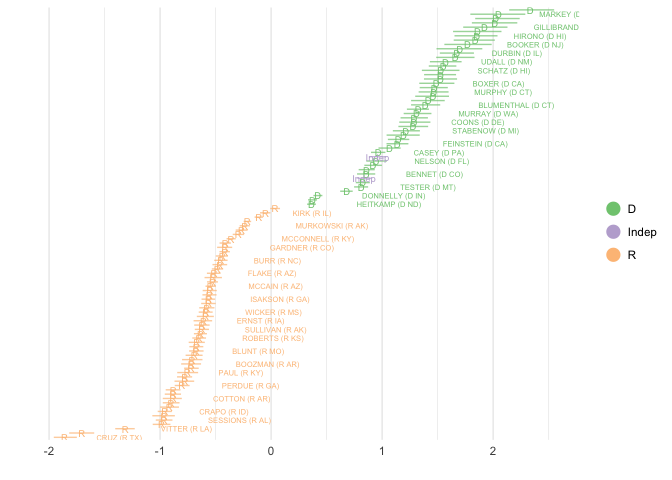
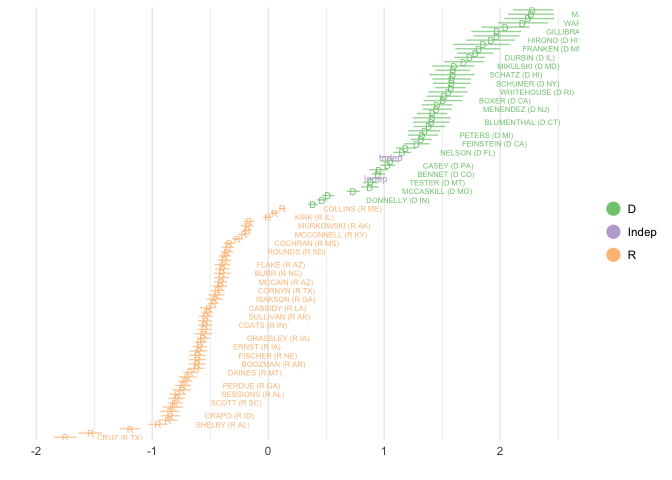
fixed typo in vignettes

Changed region(s): [[0.1562, 0.0, 0.875, 0.9375], [0.0938, 0.875, 0.1562, 0.9062]]

diff --git a/README.md b/README.md
@@ -31,12 +31,12 @@ knitr::kable(as_data_frame(head(ord_ideal_sim@score_matrix)))
 
 |    1|    2|    3|    4|    5|    6|    7|    8|    9|   10|   11|   12|   13|   14|   15|   16|   17|   18|   19|   20|   21|   22|   23|   24|   25|   26|   27|   28|   29|   30|   31|   32|   33|   34|   35|   36|   37|   38|   39|   40|   41|   42|   43|   44|   45|   46|   47|   48|   49|   50|
 |----:|----:|----:|----:|----:|----:|----:|----:|----:|----:|----:|----:|----:|----:|----:|----:|----:|----:|----:|----:|----:|----:|----:|----:|----:|----:|----:|----:|----:|----:|----:|----:|----:|----:|----:|----:|----:|----:|----:|----:|----:|----:|----:|----:|----:|----:|----:|----:|----:|----:|
-|    1|    1|    4|    2|    2|    4|    4|    4|    4|    1|    4|    3|    4|    3|    4|    4|    4|    3|    4|    4|    4|    4|    4|    1|    3|    4|    3|    4|    4|    2|    3|    4|    4|    3|    2|    1|    4|    2|    1|    1|    2|    3|    4|    4|    4|    2|    1|    3|    4|    1|
-|    3|    1|    4|    4|    1|    4|    4|    3|    1|    1|    3|    3|    4|    4|    4|    2|    4|    3|    4|    4|    4|    4|    4|    4|    4|    1|    3|    4|    4|    4|    3|    4|    3|    4|    4|    1|    4|    4|    3|    1|    3|    3|    4|    4|    4|    1|    1|    2|    4|    4|
-|    1|    2|    2|    3|    3|    3|    4|    1|    4|    2|    3|    3|    4|    3|    4|    4|    4|    4|    4|    4|    2|    3|    4|    2|    4|    1|    2|    1|    4|    4|    4|    3|    4|    4|    4|    4|    2|    2|    4|    1|    3|    4|    4|    1|    4|    3|    1|    4|    4|    4|
-|    2|    4|    4|    1|    1|    4|    1|    1|    4|    1|    3|    3|    4|    4|    4|    1|    3|    4|    4|    4|    4|    4|    4|    1|    4|    3|    3|    3|    4|    4|    3|    2|    4|    4|    4|    4|    4|    4|    3|    1|    3|    3|    4|    4|    4|    1|    4|    3|    1|    1|
-|    2|    4|    4|    4|    4|    4|    4|    4|    1|    1|    2|    2|    4|    4|    4|    4|    4|    3|    4|    4|    4|    4|    1|    1|    4|    4|    3|    4|    4|    4|    3|    4|    1|    3|    1|    1|    3|    2|    3|    1|    3|    3|    4|    4|    4|    1|    1|    4|    4|    4|
-|    4|    2|    1|    3|    4|    1|    2|    1|    3|    4|    4|    4|    1|    1|    1|    1|    2|    4|    1|    2|    1|    4|    4|    3|    1|    1|    4|    1|    3|    1|    4|    1|    4|    1|    4|    4|    2|    1|    4|    4|    4|    4|    4|    3|    1|    4|    3|    4|    1|    3|
+|    1|    4|    1|    1|    4|    4|    4|    4|    1|    4|    2|    4|    4|    3|    4|    4|    4|    4|    4|    1|    4|    1|    1|    4|    4|    4|    4|    4|    1|    4|    3|    4|    3|    3|    1|    4|    4|    1|    1|    1|    1|    4|    3|    4|    1|    4|    1|    3|    4|    4|
+|    1|    4|    1|    4|    2|    4|    4|    3|    3|    4|    4|    4|    3|    1|    2|    4|    4|    4|    3|    1|    4|    4|    3|    3|    1|    1|    2|    4|    4|    4|    2|    4|    3|    1|    4|    4|    1|    3|    1|    2|    3|    1|    3|    1|    4|    1|    3|    3|    2|    1|
+|    1|    4|    1|    3|    4|    1|    4|    3|    3|    1|    3|    3|    1|    2|    4|    4|    4|    3|    4|    3|    3|    2|    1|    1|    4|    1|    2|    4|    2|    4|    4|    4|    3|    3|    3|    4|    3|    4|    3|    1|    1|    2|    3|    1|    1|    1|    4|    2|    3|    3|
+|    3|    1|    2|    3|    1|    4|    2|    4|    4|    4|    4|    3|    3|    4|    1|    1|    3|    3|    4|    4|    2|    4|    4|    2|    4|    4|    1|    2|    4|    1|    4|    3|    1|    4|    4|    1|    2|    3|    4|    3|    4|    1|    4|    4|    4|    3|    1|    4|    1|    3|
+|    3|    4|    3|    3|    3|    1|    1|    4|    4|    4|    4|    2|    1|    4|    4|    1|    3|    3|    4|    4|    3|    4|    4|    1|    1|    3|    1|    1|    4|    3|    4|    3|    4|    4|    4|    3|    3|    2|    4|    3|    4|    3|    4|    3|    3|    3|    4|    1|    2|    3|
+|    4|    4|    4|    2|    4|    3|    4|    1|    1|    3|    3|    1|    4|    3|    4|    4|    4|    4|    1|    1|    4|    1|    4|    4|    4|    1|    4|    4|    1|    2|    3|    4|    4|    3|    3|    4|    4|    4|    1|    4|    3|    4|    3|    4|    1|    4|    4|    3|    4|    4|
 
 The vote/score matrix has legislators/persons in the rows and bills/items in the columns. In this simulated data, yes votes are recorded as `3`, no votes as `1`, abstentions as `2`, and absences as `4`.
 
@@ -89,8 +89,8 @@ ord_ideal_est <- id_estimate(idealdata=ord_ideal_sim,
     ## 
     ## 
     ## 
-    ## Gradient evaluation took 0.000479 seconds
-    ## 1000 transitions using 10 leapfrog steps per transition would take 4.79 seconds.
+    ## Gradient evaluation took 0.000505 seconds
+    ## 1000 transitions using 10 leapfrog steps per transition would take 5.05 seconds.
     ## Adjust your expectations accordingly!
     ## 
     ## 
@@ -105,10 +105,10 @@ ord_ideal_est <- id_estimate(idealdata=ord_ideal_sim,
     ## Begin stochastic gradient ascent.
     ##   iter       ELBO   delta_ELBO_mean   delta_ELBO_med   notes 
     ##    100     -1e+03             1.000            1.000
-    ##    200     -1e+03             0.511            1.000
-    ##    300     -1e+03             0.342            0.022
-    ##    400     -1e+03             0.258            0.022
-    ##    500     -1e+03             0.207            0.008   MEDIAN ELBO CONVERGED
+    ##    200     -1e+03             0.510            1.000
+    ##    300     -1e+03             0.342            0.020
+    ##    400     -1e+03             0.257            0.020
+    ##    500     -1e+03             0.206            0.007   MEDIAN ELBO CONVERGED
     ## 
     ## Drawing a sample of size 1000 from the approximate posterior... 
     ## COMPLETED.
@@ -177,8 +177,8 @@ sen_est <- id_estimate(senate_data,
     ## 
     ## 
     ## 
-    ## Gradient evaluation took 0.029877 seconds
-    ## 1000 transitions using 10 leapfrog steps per transition would take 298.77 seconds.
+    ## Gradient evaluation took 0.028085 seconds
+    ## 1000 transitions using 10 leapfrog steps per transition would take 280.85 seconds.
     ## Adjust your expectations accordingly!
     ## 
     ## 
@@ -193,10 +193,10 @@ sen_est <- id_estimate(senate_data,
     ## Begin stochastic gradient ascent.
     ##   iter       ELBO   delta_ELBO_mean   delta_ELBO_med   notes 
     ##    100     -2e+04             1.000            1.000
-    ##    200     -2e+04             0.510            1.000
-    ##    300     -2e+04             0.341            0.020
-    ##    400     -2e+04             0.256            0.020
-    ##    500     -2e+04             0.205            0.003   MEDIAN ELBO CONVERGED
+    ##    200     -2e+04             0.506            1.000
+    ##    300     -2e+04             0.339            0.012
+    ##    400     -2e+04             0.255            0.012
+    ##    500     -2e+04             0.204            0.004   MEDIAN ELBO CONVERGED
     ## 
     ## Drawing a sample of size 1000 from the approximate posterior... 
     ## COMPLETED.
@@ -207,14 +207,14 @@ id_plot(sen_est,person_ci_alpha=0.7) + scale_colour_brewer(type='qual')
 
 ![](README_files/figure-markdown_github-ascii_identifiers/run_114_model-1.png)
 
-The `id_plot` function has many other options which are documented in the help files. One notable option, though, is to plot bill midpoints along with the legislator ideal points. The midpoints show the line of equiprobability, i.e., at what ideal point is a legislator indifferent to voting on a bill (or answering an item correctly). To plot a bill midpoint overlay, simply include the column index of bill in the response matrix as the `bill_plot` option:
+The `id_plot` function has many other options which are documented in the help files. One notable option, though, is to plot bill midpoints along with the legislator ideal points. The midpoints show the line of equiprobability, i.e., at what ideal point is a legislator indifferent to voting on a bill (or answering an item correctly). To plot a bill midpoint overlay, simply include the column index of bill in the response matrix as the `item_plot` option:
 
 ``` r
 id_plot(sen_est,person_ci_alpha=0.1,item_plot=205,
         abs_and_reg='Vote Points') + scale_colour_brewer(type='qual')
 ```
 
-![](README_files/figure-markdown_github-ascii_identifiers/bill_plot-1.png)
+![](README_files/figure-markdown_github-ascii_identifiers/item_plot-1.png)
 
 The 50th bill in the 114 Senate shows very high discrimination: the bill midpoint is right in the middle of the ideal point distribution, with most Democrats voting yes and most Repulicans voting no. The two rug lines at the bottom of the plot show the high density posterior interval for the bill midpoint, and as can be seen, the uncertainty only included those legislators near the very center of the distribution.
 
@@ -225,6 +225,6 @@ id_plot(sen_est,person_ci_alpha=0.1,item_plot=205,
         abs_and_reg='Absence Points') + scale_colour_brewer(type='qual')
 ```
 
-![](README_files/figure-markdown_github-ascii_identifiers/abs_bill_plot-1.png)
+![](README_files/figure-markdown_github-ascii_identifiers/abs_item_plot-1.png)
 
 This absence midpoint shows that those who were most likely to be absent on this bill were Republicans who were pretty close to the far right (left) of the ideal point distribution. Of course, that does not mean absence always implies that one is far to the right, it is just how this particular bill absence midpoint happens to fall. In addition, the uncertainty around this midpoint is much higher than the vote midpoint.
